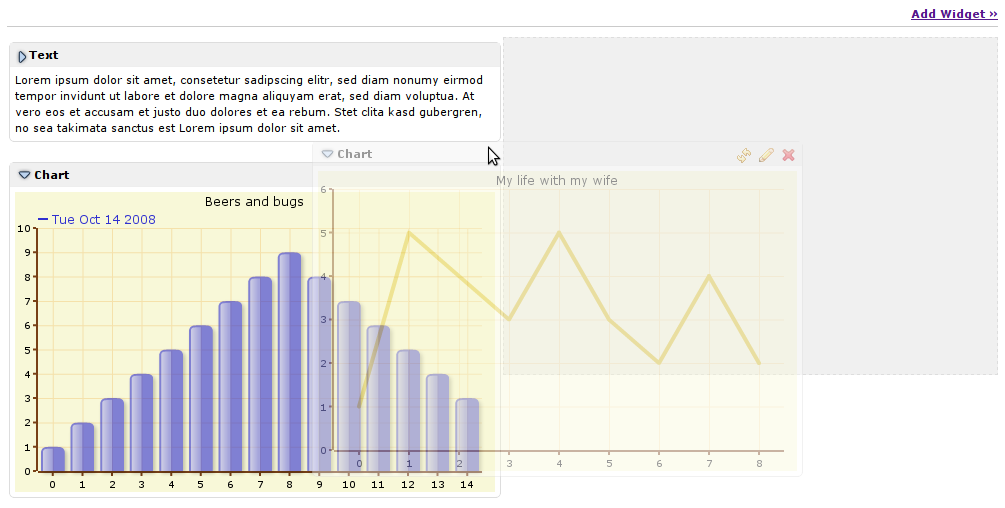
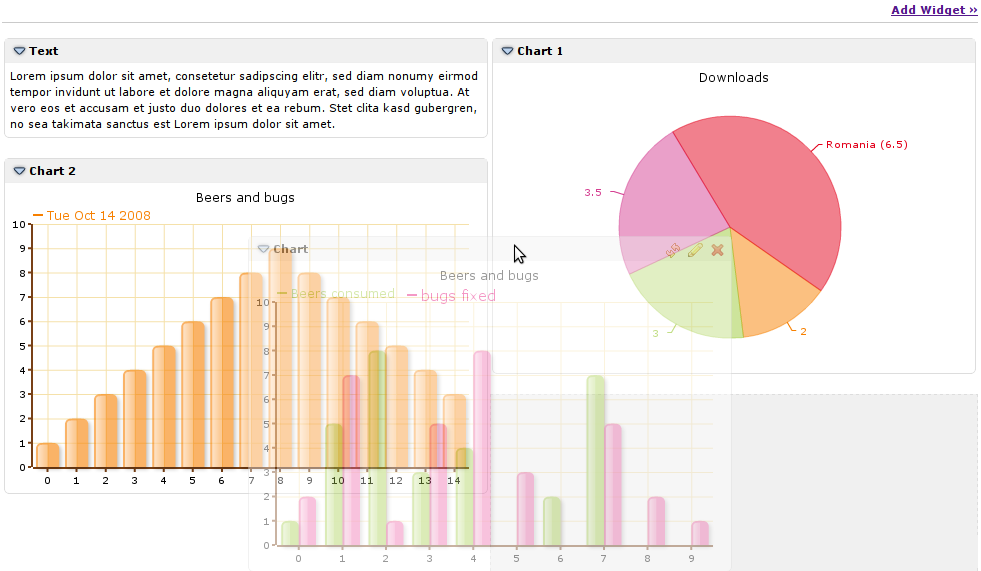
upgrade demo screenshot

diff --git a/demo/src/main/java/com/asf/wicket/dashboard/demo/ofchart/DemoChartFactory.java b/demo/src/main/java/com/asf/wicket/dashboard/demo/ofchart/DemoChartFactory.java
@@ -39,10 +39,18 @@ public class DemoChartFactory {
 		// b) use http://code.google.com/p/jofc2/
 //		BarChart barChart = new BarChart();
 		BarChart barChart = new BarChart(BarChart.Style.GLASS);
+		barChart.setColour("#F78000");
+		barChart.useAnimation(true);
 		barChart.addValues(1, 2, 3, 4, 5, 6, 7 , 8, 9, 8, 7, 6, 5, 4, 3);
 		barChart.setText("Tue Oct 14 2008");
 		
 		Chart chart = new Chart("Beers and bugs");
+		/*
+		Legend legend = new Legend();
+		legend.setBg_colour("#333333");
+		chart.setLegend(legend);
+		*/
+		chart.setBackgroundColour("#FFFFFF");
 		chart.addElements(barChart);		
 		
 		return chart;
@@ -50,19 +58,19 @@ public class DemoChartFactory {
 
 	public static Chart createDemoDoubleBarChart() {
 		BarChart barChart = new BarChart(BarChart.Style.GLASS);
-		barChart.setColour("#007FFF");
+		barChart.setColour("#9AC836");
 		barChart.setTooltip("Beers:<br>Value:#val#");
-		barChart.addValues(1, 5, 8, 3, 0, 2);
+		barChart.addValues(1, 5, 8, 3, 4, 0, 2, 7);
 		barChart.setText("Beers consumed");
 		barChart.setAlpha(0.1f);
 
 		BarChart barChart2 = new BarChart(BarChart.Style.GLASS);
-		barChart2.setColour("#802A2A");
+		barChart2.setColour("#E30071");
 		barChart2.setTooltip("#val#<br>bugs fixed");
 		barChart2.setText("bugs fixed");
 		barChart2.setFontSize(15);
 		barChart.setAlpha(0.9f);
-		barChart2.addValues(2, 7, 1, 5, 8, 3, 0, 2);
+		barChart2.addValues(2, 7, 1, 5, 8, 3, 0, 5, 2, 1);
 
 		Chart chart = new Chart("Beers and bugs");
 		chart.addElements(barChart, barChart2);
@@ -79,7 +87,7 @@ public class DemoChartFactory {
 		
 		List<Number> values = new ArrayList<Number>();
 		Random random = new Random();
-		for (int i = 0; i < 9; i++) {
+		for (int i = 0; i < 15; i++) {
 		      values.add(1 + random.nextInt(5));
 		}
 		lineChart.addValues(values);
@@ -89,6 +97,7 @@ public class DemoChartFactory {
 		yAxis.setRange(0, 6, 1);		
 		chart.setYAxis(yAxis);
 		chart.addElements(lineChart);
+		chart.setBackgroundColour("#FFFFFF");
 		
 		return chart;
 	}
@@ -115,9 +124,10 @@ public class DemoChartFactory {
 
 		Chart chart = new Chart(new Date().toString());
 		YAxis yAxis = new YAxis();
-		yAxis.setRange(0, 3, 1);		
+		yAxis.setRange(0, 3, 1);
 		chart.setYAxis(yAxis);
 		chart.addElements(lineChart);
+		chart.setBackgroundColour("#FFFFFF");
 	    
 		return chart;
 	}
@@ -127,14 +137,15 @@ public class DemoChartFactory {
 		pieChart.setAnimate(true);
 		pieChart.setStartAngle(35);
 		pieChart.setBorder(2);
-		pieChart.setAlpha(0.6f);		
-		pieChart.addValues(2, 3);
+//		pieChart.setAlpha(0.6f);		
+		pieChart.addValues(2, 3, 3.5);
 		pieChart.addSlice(6.5f, "Romania (6.5)");
-		pieChart.setColours("#d01f3c", "#356aa0", "#C79810");
+		pieChart.setColours("#F78000", "#9AC836", "#D54192", "#E3001B");
 		pieChart.setTooltip("#val# of #total#<br>#percent# of 100%");
 
 		Chart chart = new Chart("Downloads");
 		chart.addElements(pieChart);
+		chart.setBackgroundColour("#FFFFFF");
 		
 		return chart;
 	}
@@ -157,6 +168,7 @@ public class DemoChartFactory {
 	    xAxis.setRange(0, 6, 1);
 	    chart.setXAxis(xAxis);
 	    chart.addElements(scatterChart);
+		chart.setBackgroundColour("#FFFFFF");
 	
 	    return chart;
 	}
